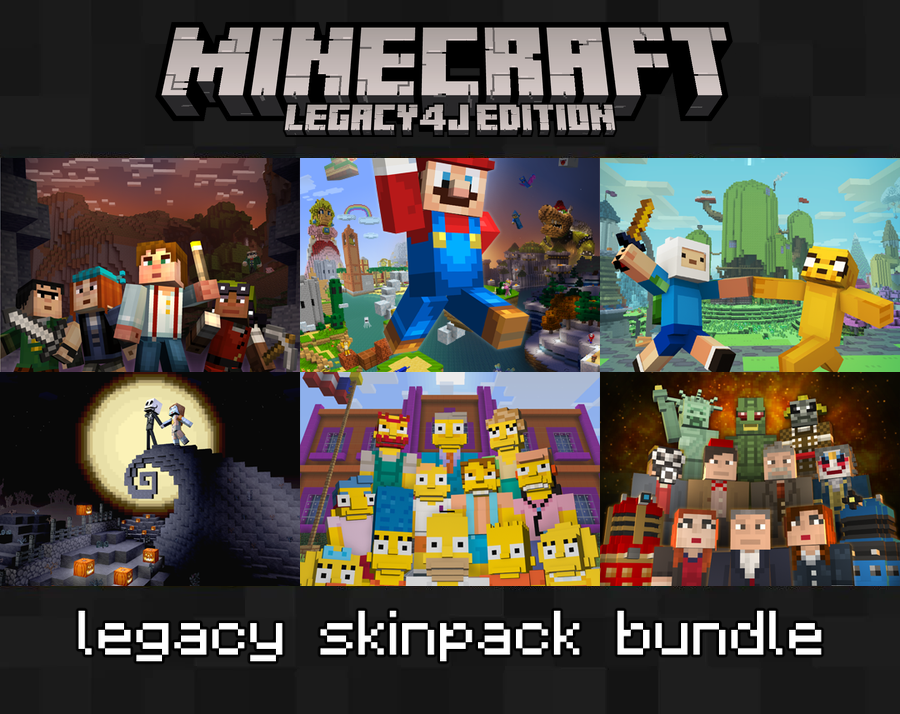
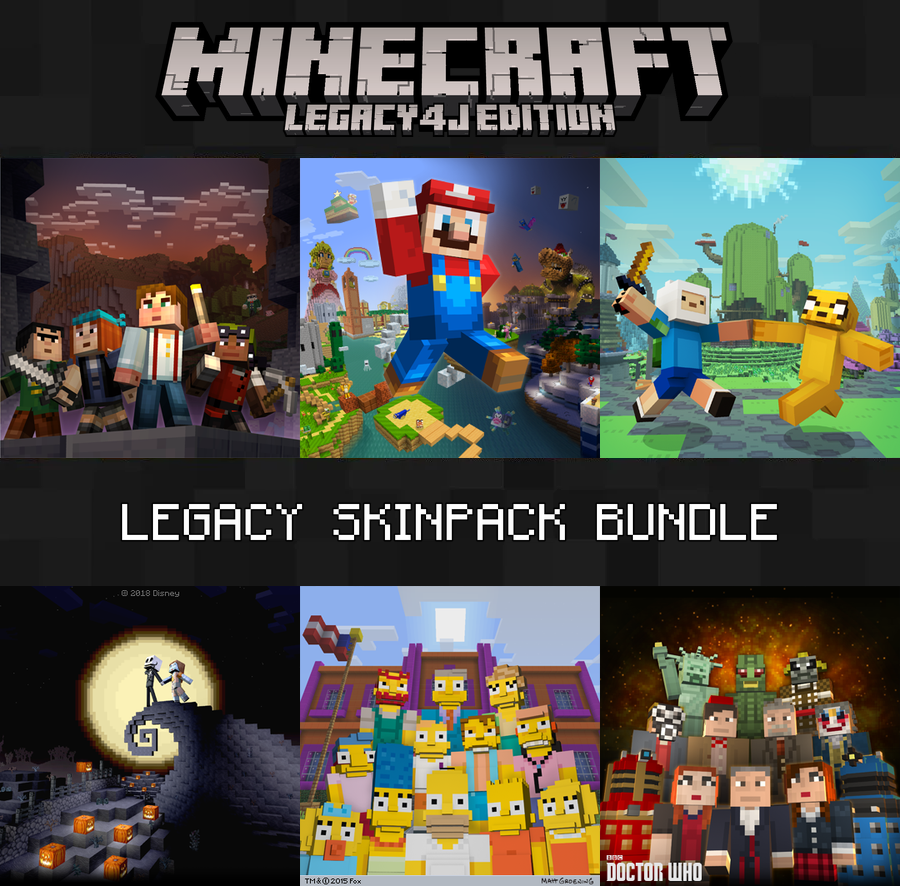
updated bundle images

diff --git a/scripts/make_bundle_preview.py b/scripts/make_bundle_preview.py
@@ -75,16 +75,22 @@ def paste_photos(canvas: Image.Image, paths: list[Path], box: tuple[int, int, in
         canvas.alpha_composite(photo, (x + slot_width * index, y))
 
 
-def extend_canvas_for_rows(canvas: Image.Image, box: tuple[int, int, int, int], extra_rows: int) -> Image.Image:
-    if extra_rows <= 0:
-        return canvas
-    _, y, _, height = box
-    row_bottom = y + height
-    new_canvas = Image.new("RGBA", (canvas.width, canvas.height + height * extra_rows), (0, 0, 0, 0))
-    new_canvas.alpha_composite(canvas.crop((0, 0, canvas.width, row_bottom)), (0, 0))
-    bottom = canvas.crop((0, row_bottom, canvas.width, canvas.height))
-    new_canvas.alpha_composite(bottom, (0, row_bottom + height * extra_rows))
-    return new_canvas
+def make_two_row_canvas(
+    canvas: Image.Image,
+    box: tuple[int, int, int, int],
+    top_row_height: int,
+    second_row_height: int,
+) -> tuple[Image.Image, tuple[int, int, int, int], int, int, int]:
+    x, y, width, height = box
+    title_band_y = y + height
+    title_band = canvas.crop((0, title_band_y, canvas.width, canvas.height))
+    new_height = y + top_row_height + title_band.height + second_row_height
+    new_canvas = Image.new("RGBA", (canvas.width, new_height), (0, 0, 0, 0))
+    new_canvas.alpha_composite(canvas.crop((0, 0, canvas.width, y)), (0, 0))
+    new_title_y = y + top_row_height
+    new_canvas.alpha_composite(title_band, (0, new_title_y))
+    second_row_y = new_title_y + title_band.height
+    return new_canvas, (x, y, width, top_row_height), second_row_y, new_title_y, title_band.height
 
 
 def load_font(path: Path | None, size: int) -> ImageFont.FreeTypeFont | ImageFont.ImageFont:
@@ -159,6 +165,8 @@ def main() -> int:
     parser.add_argument("--photos", nargs=3)
     parser.add_argument("--photos2", nargs=3)
     parser.add_argument("--photo-strip", type=parse_box, default=parse_box("0,158,900,214"))
+    parser.add_argument("--top-row-height", type=int)
+    parser.add_argument("--second-row-height", type=int)
     parser.add_argument("--text")
     parser.add_argument("--text-image")
     parser.add_argument("--text-y", type=int)
@@ -168,7 +176,7 @@ def main() -> int:
     parser.add_argument("--text-stroke", type=parse_color, default=parse_color("#151515"))
     parser.add_argument("--text-stroke-width", type=int, default=2)
     parser.add_argument("--text-max-width", type=int, default=760)
-    parser.add_argument("--text-image-max-height", type=int, default=70)
+    parser.add_argument("--text-image-max-height", type=int)
     parser.add_argument("--output")
     args = parser.parse_args()
 
@@ -190,23 +198,41 @@ def main() -> int:
         output_path = default_output(args.text)
     require_file(base_path, "base image")
     canvas = Image.open(base_path).convert("RGBA")
-    extra_rows = 1 if args.photos2 else 0
+    first_photo_strip = args.photo_strip
+    title_area_y = args.photo_strip[1] + args.photo_strip[3]
+    title_area_height = max(0, canvas.height - title_area_y)
+    second_row_y = 0
+    second_row_height = 0
+    if args.photos2:
+        top_row_height = args.top_row_height or args.photo_strip[2] // 3
+        second_row_height = args.second_row_height or top_row_height
+        canvas, first_photo_strip, second_row_y, title_area_y, title_area_height = make_two_row_canvas(
+            canvas,
+            args.photo_strip,
+            top_row_height,
+            second_row_height,
+        )
+    if args.text_image_max_height is None:
+        args.text_image_max_height = 44 if args.photos2 else 70
     if args.text_y is None:
-        args.text_y = 390 + args.photo_strip[3] * extra_rows
-    canvas = extend_canvas_for_rows(canvas, args.photo_strip, extra_rows)
+        if args.photos2:
+            estimated_text_height = args.text_image_max_height if args.text_image else args.text_size
+            args.text_y = title_area_y + max(0, (title_area_height - estimated_text_height) // 2)
+        else:
+            args.text_y = 390
 
     if args.photos:
         photo_paths = [resolve_path(path, input_base) for path in args.photos]
         for index, path in enumerate(photo_paths, 1):
             require_file(path, f"photo {index}")
-        paste_photos(canvas, photo_paths, args.photo_strip)
+        paste_photos(canvas, photo_paths, first_photo_strip)
 
     if args.photos2:
         photo_paths = [resolve_path(path, input_base) for path in args.photos2]
         for index, path in enumerate(photo_paths, 1):
             require_file(path, f"second row photo {index}")
-        x, y, width, height = args.photo_strip
-        paste_photos(canvas, photo_paths, (x, y + height, width, height))
+        x, _, width, _ = args.photo_strip
+        paste_photos(canvas, photo_paths, (x, second_row_y, width, second_row_height))
 
     if not args.no_header:
         header_path = resolve_template_path(args.header, template_dir, bundle_dir)
